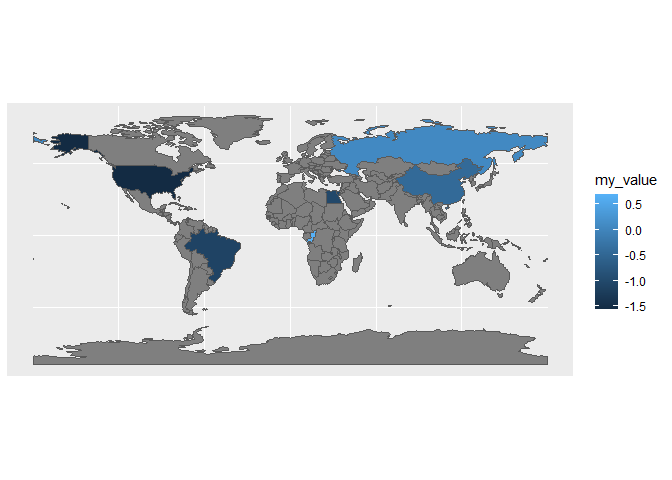
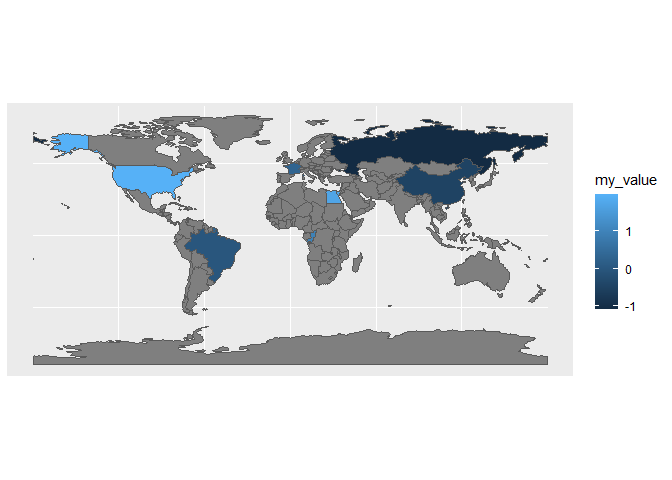
changed to iso_a3_eh countrycodes to get Norway and France metropolitain areas

diff --git a/05 - Exploration and Plotting/README.md b/05 - Exploration and Plotting/README.md
@@ -424,7 +424,7 @@ ok. If you want to publish articles, you should be more specific here.
 
 ``` r
 wdi_data_extra_sf <- inner_join(countries_sf, wdi_data_extra,
-                                by = c("iso_a3" = "Country Code"))
+                                by = c("iso_a3_eh" = "Country Code"))
 ```
 
 The final data `wdi_data_extra_sf` is the final result for data
